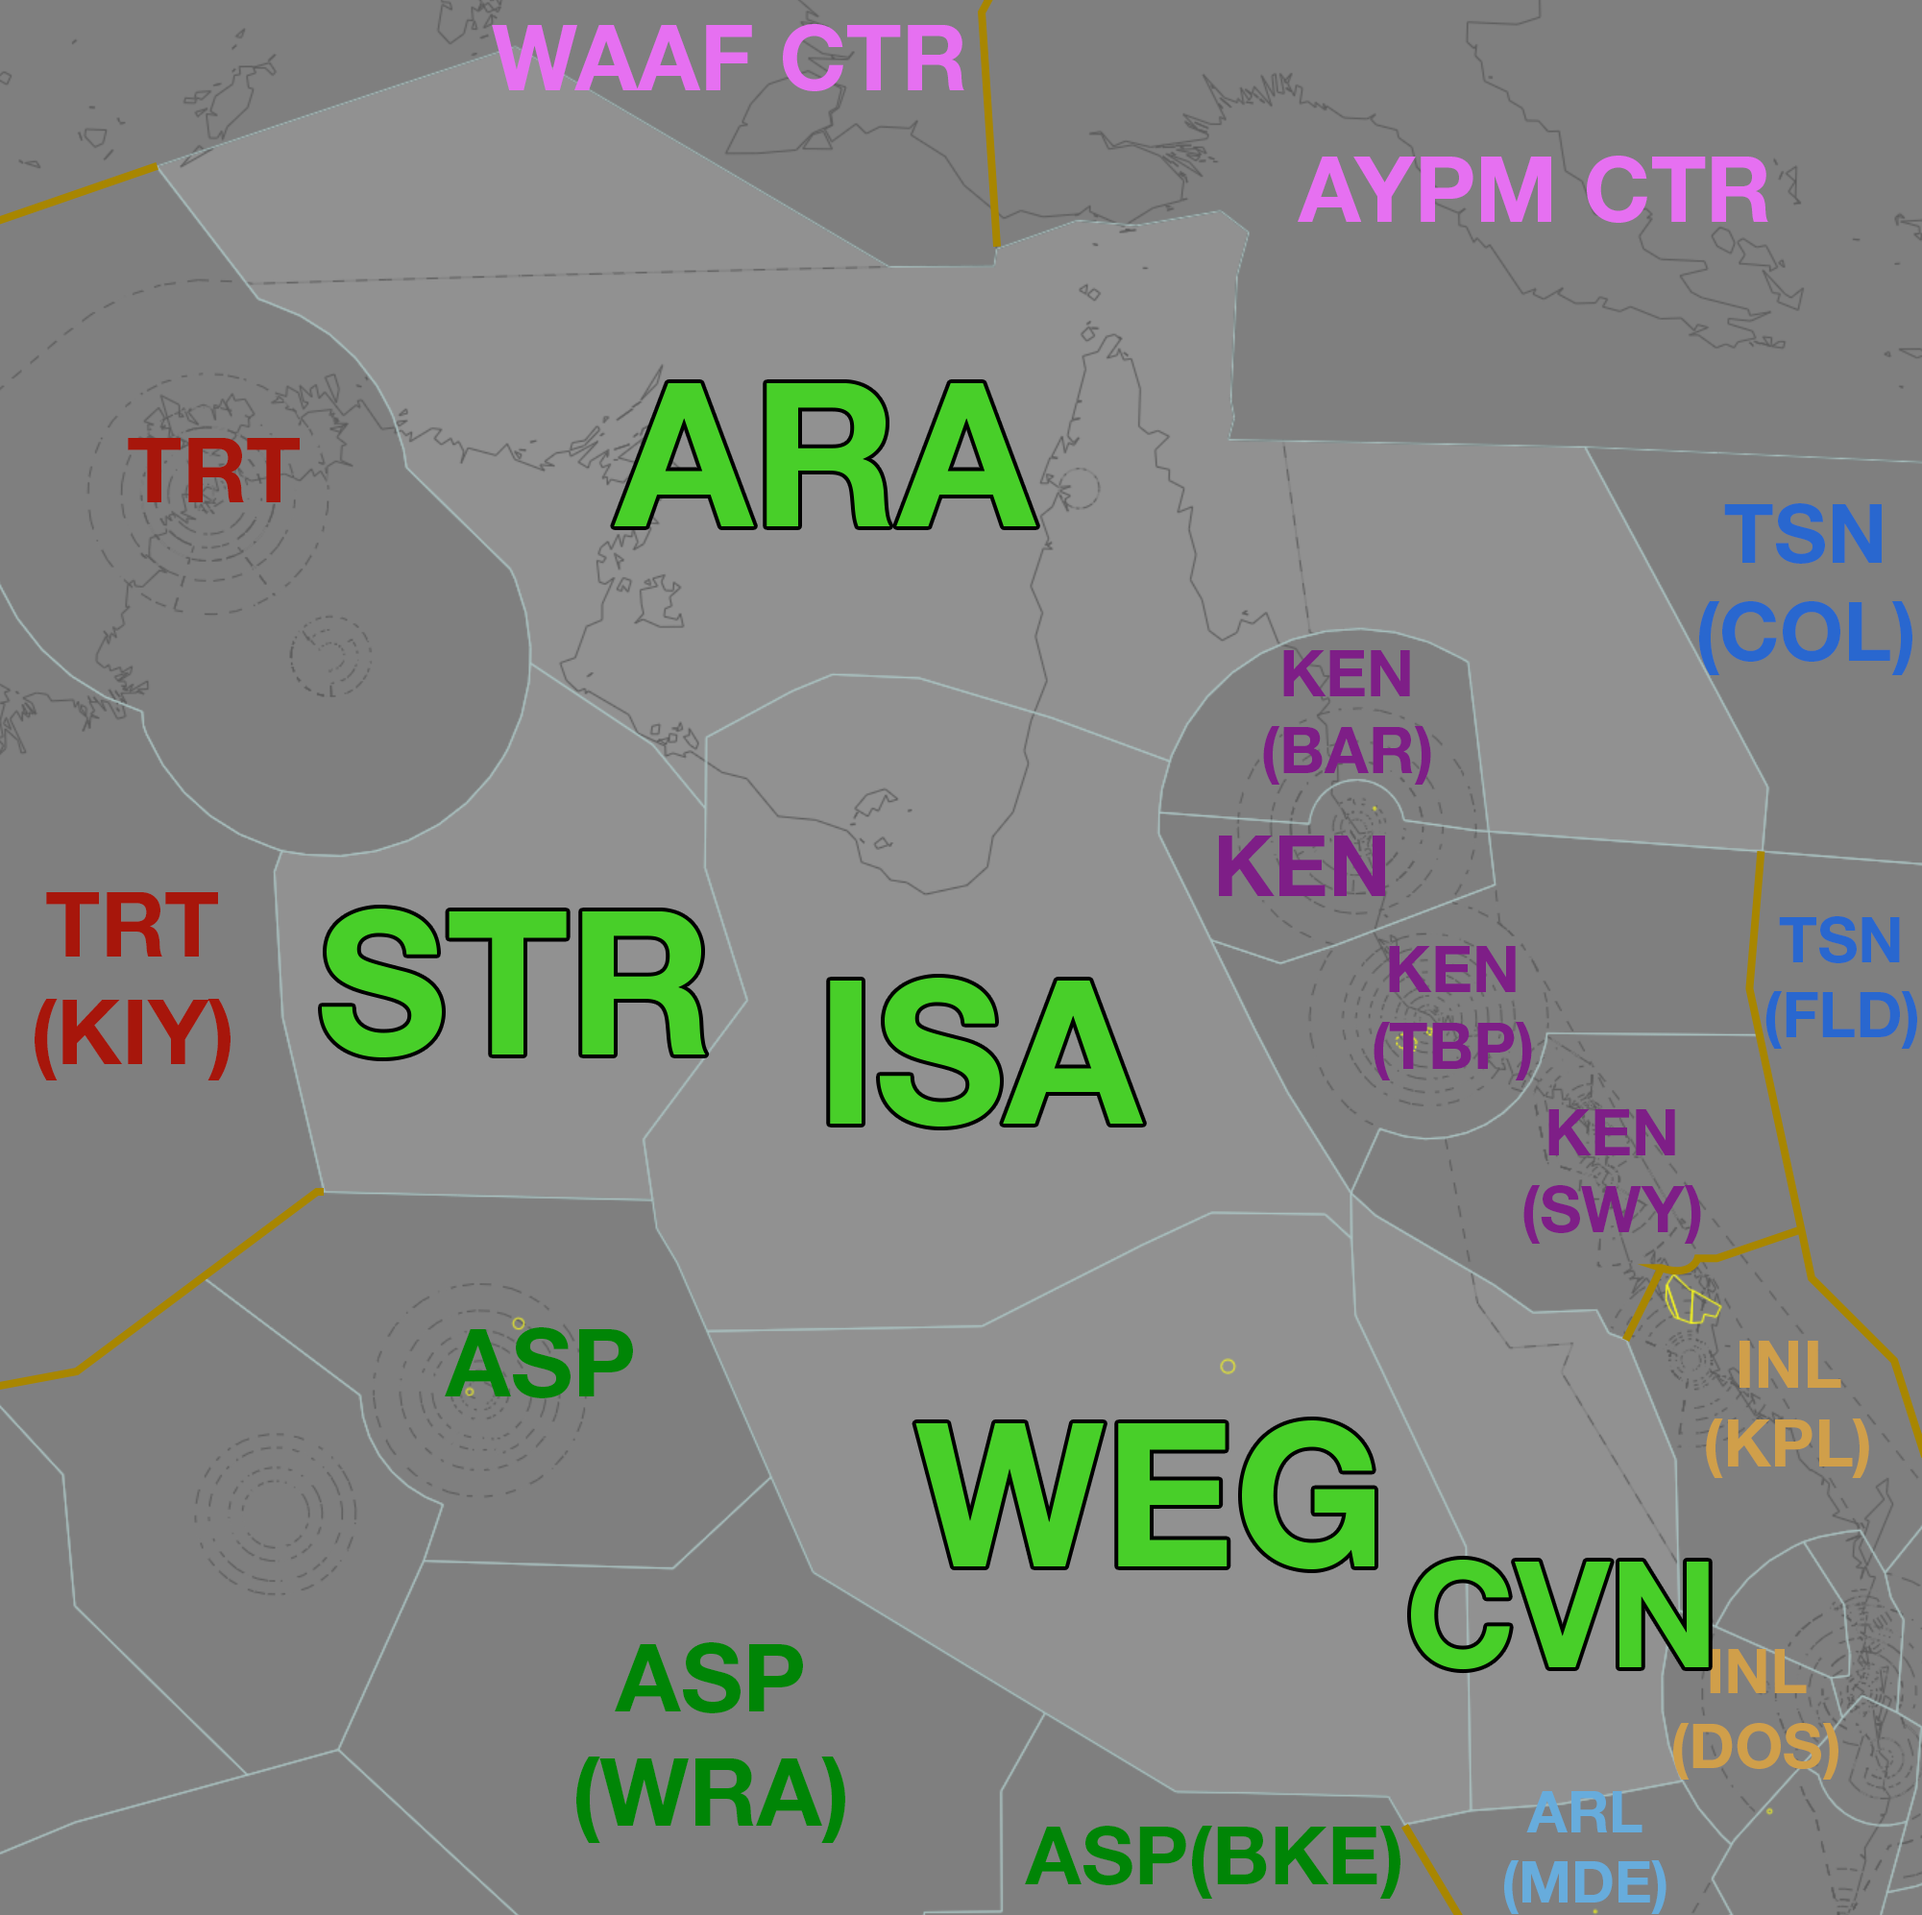
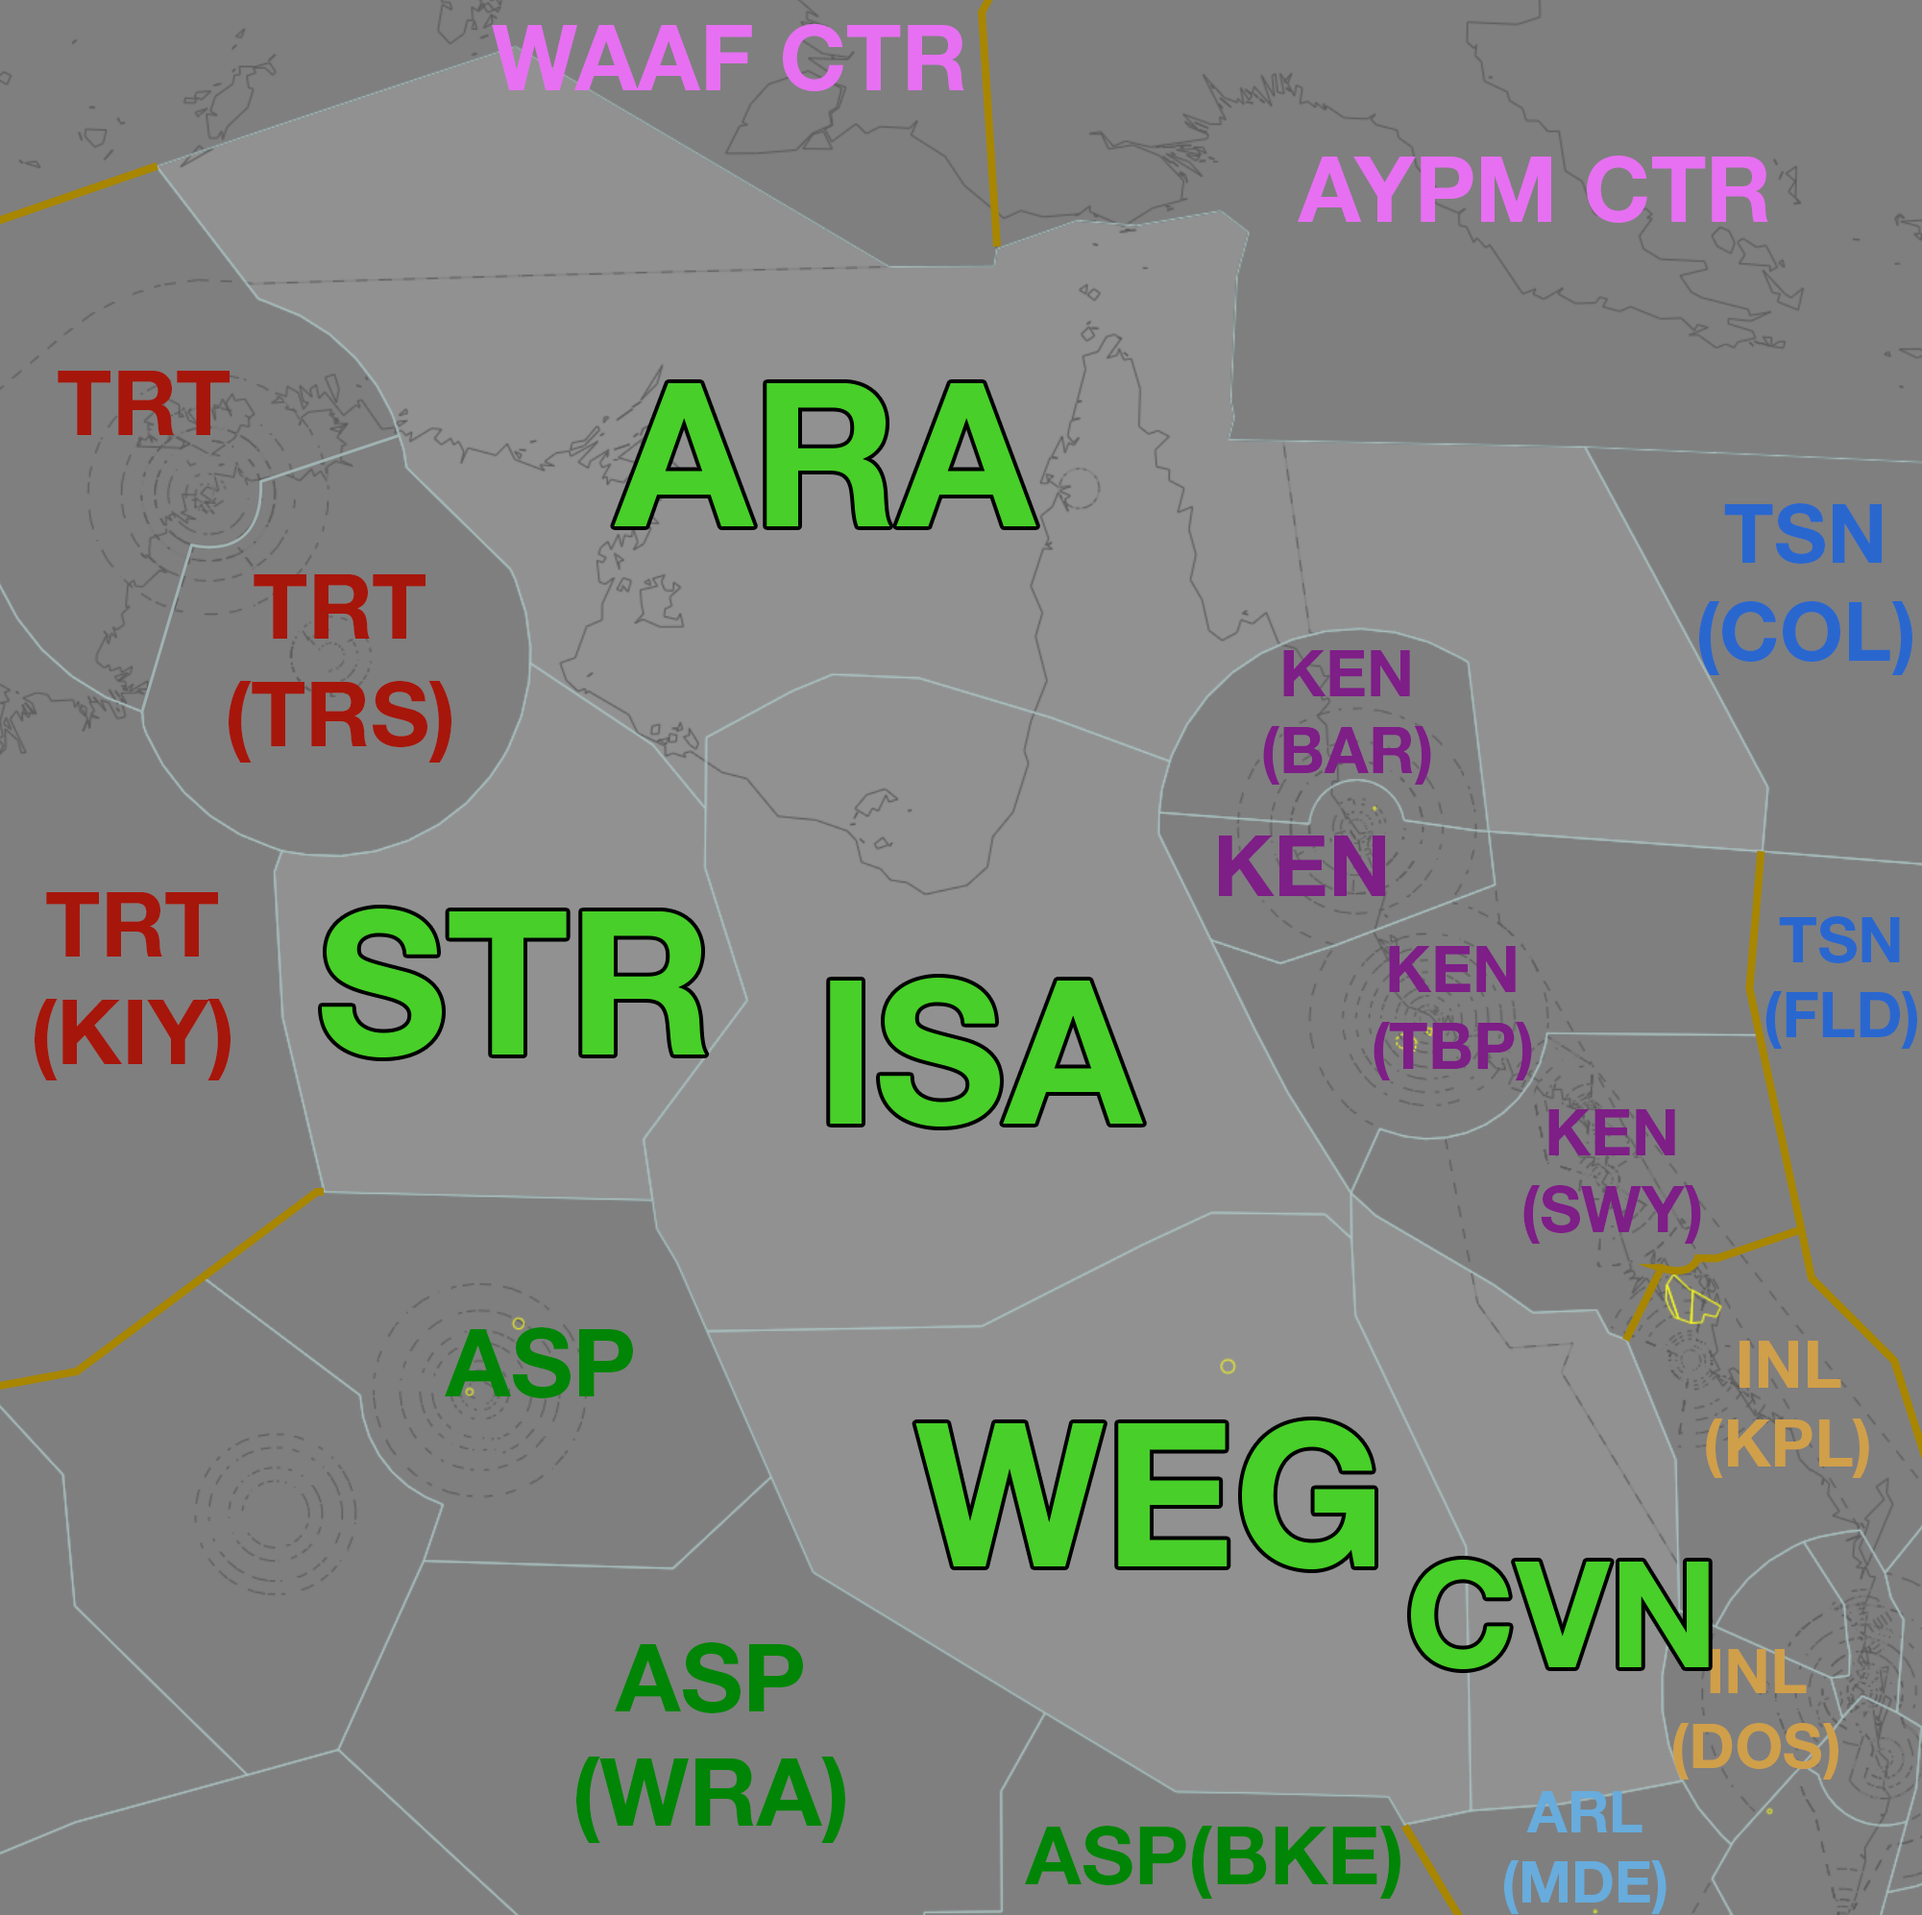
2410 TRT

Changed region(s): [[0.031, 0.1866, 0.2479, 0.4042]]

diff --git a/docs/enroute/Brisbane Centre/TRT.md b/docs/enroute/Brisbane Centre/TRT.md
@@ -7,8 +7,10 @@
 ## Positions
 | Name | Callsign | Frequency | Login ID |
 | ---- | -------- | --------- | -------- |
-| **Territory** | **Brisbane Centre** | **133.200** | **BN-TRT_CTR** |
-| Kimberley† | Brisbane Centre | 133.400 | BN-KIY_CTR |
+| **Territory North** | **Brisbane Centre** | **123.850** | **BN-TRT_CTR** |
+| Territory South† | Brisbane Centre | 133.200 | BN-TRS_CTR |
+| Ashmore† | Brisbane Centre | 133.400 | BN-ASH_CTR |
+| Kimberley† | Brisbane Centre | 132.100 | BN-KIY_CTR |
 
 † *Non-standard positions* may only be used in accordance with [VATPAC Air Traffic Services Policy](https://vatpac.org/publications/policies){target=new}
 
@@ -27,19 +29,19 @@ Voice may be used in lieu when applicable.
   <figcaption>Territory Airspace</figcaption>
 </figure>
 
-TRT is responsible for **KIY** when they are offline.  
+TRT is responsible for **TRS**, **ASH**, and **KIY**,  when they are offline.  
 
 ### Reclassifications
 #### BRM CTR
-When **BRM ADC** is offline, BRM CTR (Class D/E `SFC` to `A055`) reverts to Class G, and is administered by KIY. Alternatively, KIY may provide a [top-down procedural service](../../../aerodromes/Broome) if they wish.
+When **BRM ADC** is offline, BRM CTR (Class D/E `SFC` to `A055`) reverts to Class G, and is administered by ASH. Alternatively, ASH may provide a [top-down procedural service](../../../aerodromes/Broome) if they wish.
 
 !!! tip
     If choosing *not* to provide a top down service, consider publishing an **ATIS Zulu** for the aerodrome, to inform pilots about the airspace reclassification. The *More ATIS* plugin has a formatted Zulu ATIS message.
 
 ## Sector Responsibilities
-TRT is responsible for sequencing, issuing STAR Clearances, and issuing descent for aircraft bound for YPDN.  
-KIY is responsible for issuing descent and ascertaining arrival intentions for aircraft bound for YBRM.
-KIY is also responsible for sequencing and issuing descent to aircraft bound for YCIN.
+TRT and TRS are responsible for sequencing, issuing STAR Clearances, and issuing descent for aircraft bound for YPDN.  
+ASH is responsible for issuing descent and ascertaining arrival intentions for aircraft bound for YBRM.
+ASH is also responsible for sequencing and issuing descent to aircraft bound for YCIN.
 
 ## STAR Clearance Expectation
 ### Handoff
@@ -47,14 +49,14 @@ Aircraft being transferred to the following sectors shall be told to Expect STAR
 
 | Transferring Sector | Receiving Sector | ADES | Notes |
 | ---- | -------- | --------- | --------- |
-| STR, KIY | TRT | YPDN | |
+| ASH, KIY | TRT, TRS | YPDN | |
 
 ### First Contact
 Aircraft being transferred from the following sectors shall be given STAR Clearance on first contact:
 
 | Transferring Sector | Receiving Sector | ADES | Notes |
 | ---- | -------- | --------- | --------- |
-| STR, KIY, ISA(ARA) | TRT | YPDN | |
+| KIY, ASH, ISA(ARA/STR) | TRT, TRS | YPDN | |
 
 ## Coordination
 
@@ -96,14 +98,14 @@ All other aircraft going to TRT CTA will be **Heads-up** Coordinated by DN TCU.
 BRM ADC is responsible for the Class D airspace `SFC` to `A055`, as well as the Class E airspace `1200ft AGL` to `A055`, within the BRM CTR.
 
 #### Departures
-Departures from YBRM in to KIY CTA will be coordinated when ready for departure.  
+Departures from YBRM in to ASH CTA will be coordinated when ready for departure.  
 
 !!! example
-    <span class="hotline">**BRM ADC** -> **KIY**</span>: "Next, ANO333"  
-    <span class="hotline">**KIY** -> **BRM ADC**</span>: "ANO333, Unrestricted"  
-    <span class="hotline">**BRM ADC** -> **KIY**</span>: "ANO333"  
+    <span class="hotline">**BRM ADC** -> **ASH**</span>: "Next, ANO333"  
+    <span class="hotline">**ASH** -> **BRM ADC**</span>: "ANO333, Unrestricted"  
+    <span class="hotline">**BRM ADC** -> **ASH**</span>: "ANO333"  
 
-The Standard Assignable level from BRM ADC to TRT(KIY) is the lower of `A050` or the `RFL`, any other level must be prior coordinated.
+The Standard Assignable level from BRM ADC to TRT(ASH) is the lower of `A050` or the `RFL`, any other level must be prior coordinated.
 
 #### Arrivals
 YBRM arrivals shall be heads-up coordinated to **BRM ADC** from TRT prior to **5 mins** from the boundary.
@@ -112,22 +114,22 @@ YBRM arrivals shall be heads-up coordinated to **BRM ADC** from TRT prior to **5
     <span class="hotline">**TRT** -> **BRM ADC**</span>: "Via SAFIR, FD621”  
     <span class="hotline">**BRM ADC** -> **TRT**</span>: "FD621"  
 
-The Standard Assignable level from TRT(KIY) to BRM ADC is `A060`, any other level must be prior coordinated.
+The Standard Assignable level from TRT(ASH) to BRM ADC is `A060`, any other level must be prior coordinated.
 
 ### CIN TCU
 #### Airspace
 The limits of the CIN TCU are `SFC` to `F200` within 25 DME CIN. This may be amended by NOTAM.
 
 #### Arrivals/Overfliers
-The Standard assignable level from TRT(KIY) to CIN TCU is `F130`, tracking via CIN VOR.
+The Standard assignable level from TRT(ASH) to CIN TCU is `F130`, tracking via CIN VOR.
 
 All other aircraft must be voice coordinated to CIN TCU prior to **20nm** from the boundary.
 
 #### Departures
-The Standard Assignable level from CIN TCU to TRT(KIY) is `F190`, and tracking via their planned route.
+The Standard Assignable level from CIN TCU to TRT(ASH) is `F190`, and tracking via their planned route.
 
 #### CIN ADC
-When CIN TCU is offline, coordination is not required between TRT(KIY) and CIN ADC. Aircraft entering CIN ADC airspace shall be handed off, and instructed to contact CIN ADC for onwards clearance.
+When CIN TCU is offline, coordination is not required between TRT(ASH) and CIN ADC. Aircraft entering CIN ADC airspace shall be handed off, and instructed to contact CIN ADC for onwards clearance.
 
 CIN ADC owns the Class C airspace within the CIN MIL CTR from `SFC` to `A015`.
 

diff --git a/docs/aerodromes/procedural/Broome.md b/docs/aerodromes/procedural/Broome.md
@@ -22,24 +22,24 @@ BRM ADC is responsible for the Class D airspace `SFC` to `A055`, as well as the 
 Refer to [Class D Tower Separation Standards](../../../separation-standards/classd) for more information.
 
 ## Surveillance
-Surveillance coverage can be expected to be available at all levels in the BRM CTR. Although BRM ADC is **not permitted** to use surveillance for separation, TRT(KIY) may assist by establishing surveillance separation standards via coordination
+Surveillance coverage can be expected to be available at all levels in the BRM CTR. Although BRM ADC is **not permitted** to use surveillance for separation, TRT(ASH) may assist by establishing surveillance separation standards via coordination
 
 ## Coordination
 ### Departures
-A 'next' call is made for all aircraft when they are next to depart. BRM ADC must inform TRT(KIY) if the aircraft does not depart within **2 minutes** of the next call.
+A 'next' call is made for all aircraft when they are next to depart. BRM ADC must inform TRT(ASH) if the aircraft does not depart within **2 minutes** of the next call.
 
 !!! example
-    <span class="hotline">**BRM ADC** -> **KIY**</span>: "Next, NWK1653"  
-    <span class="hotline">**KIY** -> **BRM ADC**</span>: "NWK1653, Unrestricted"  
-    <span class="hotline">**BRM ADC** -> **KIY**</span>: "NWK1653"
+    <span class="hotline">**BRM ADC** -> **ASH**</span>: "Next, NWK1653"  
+    <span class="hotline">**ASH** -> **BRM ADC**</span>: "NWK1653, Unrestricted"  
+    <span class="hotline">**BRM ADC** -> **ASH**</span>: "NWK1653"
 
-The Standard Assignable level from BRM ADC to TRT(KIY) is the lower of `A050` or the `RFL`, any other level must be prior coordinated.
+The Standard Assignable level from BRM ADC to TRT(ASH) is the lower of `A050` or the `RFL`, any other level must be prior coordinated.
 
 ### Arrivals/Overfliers
-TRT(KIY) will heads-up coordinate all arrivals/overfliers to BRM ADC
+TRT(ASH) will heads-up coordinate all arrivals/overfliers to BRM ADC
 
 !!! example
-    <span class="hotline">**KIY** -> **BRM ADC**</span>: "Via CIN, ANO332”  
-    <span class="hotline">**BRM ADC** -> **KIY**</span>: "ANO332"  
+    <span class="hotline">**ASH** -> **BRM ADC**</span>: "Via CIN, ANO332”  
+    <span class="hotline">**BRM ADC** -> **ASH**</span>: "ANO332"  
 
-The Standard Assignable level from TRT(KIY) to BRM ADC is `A060`, any other level must be prior coordinated.
+The Standard Assignable level from TRT(ASH) to BRM ADC is `A060`, any other level must be prior coordinated.

diff --git a/docs/terminal/curtin.md b/docs/terminal/curtin.md
@@ -36,21 +36,20 @@ CIN ADC owns the Class C airspace within the CIN MIL CTR from `SFC` to `A015`.
     <span class="hotline">**CIN TCU** -> **CIN ADC**</span>: "ASY404, unrestricted"  
     <span class="hotline">**CIN ADC** -> **CIN TCU**</span>: "ASY404"  
 
-### TRT(KIY)
+### TRT(ASH)
 #### Departures
-Voiceless coordination is in place from CIN TCU to KIY for aircraft:  
+Voiceless coordination is in place from CIN TCU to ASH for aircraft:  
 Planned at or above `F190`: `Assigned F190`  
 Planned below `F190`: `Assigned the RFL`  
 
 Any aircraft not meeting the above criteria must be prior coordinated to ENR.
 
 !!! example
-    <span class="hotline">**CIN TCU** -> **KIY**</span>: "ASY404, with your concurrence, will be assigned F180, for my separation with JTE654"  
-    <span class="hotline">**KIY** -> **CIN TCU**</span>: "ASY404, concur F160"  
+    <span class="hotline">**CIN TCU** -> **ASH**</span>: "ASY404, with your concurrence, will be assigned F180, for my separation with JTE654"  
+    <span class="hotline">**ASH** -> **CIN TCU**</span>: "ASY404, concur F160"  
 
 #### Arrivals
-The Standard assignable level from KIY to CIN TCU is `F130`, and tracking via CIN VOR. All other aircraft must be prior coordinated.
+The Standard assignable level from ASH to CIN TCU is `F130`, and tracking via CIN VOR. All other aircraft must be prior coordinated.
 
 !!! note
     Additional charts to the AIP may be found in the RAAF TERMA document, available towards the bottom of [RAAF AIP page](https://ais-af.airforce.gov.au/australian-aip){target=new}
-

diff --git a/docs/aerodromes/classc/Curtin.md b/docs/aerodromes/classc/Curtin.md
@@ -34,10 +34,9 @@ CIN ADC owns the Class C airspace within the CIN MIL CTR from `SFC` to `A015`.
 
 The Standard Assignable Level from  **CIN ADC** to **CIN TCU** is the Lower of `F190` or the `RFL`.
 
-### TRT(KIY)
-When CIN TCU is offline, coordination is not required between CIN ADC and TRT(KIY). Aircraft entering TRT(KIY) airspace shall be handed off, and instructed to contact TRT(KIY) for onwards clearance.
+### TRT(ASH)
+When CIN TCU is offline, coordination is not required between CIN ADC and TRT(ASH). Aircraft entering TRT(ASH) airspace shall be handed off, and instructed to contact TRT(ASH) for onwards clearance.
 
 ## Charts
 !!! note
     Additional charts to the AIP may be found in the RAAF TERMA document, available towards the bottom of [RAAF AIP page](https://ais-af.airforce.gov.au/australian-aip){target=new}
-

diff --git a/includes/abbreviations.md b/includes/abbreviations.md
@@ -108,6 +108,8 @@
 *[GOL]: Brisbane (Gold Coast) Centre
 *[KPL]: Brisbane (Keppel) Centre
 *[KIY]: Brisbane (Kimberley) Centre
+*[ASH]: Brisbane (Ashmore) Centre
+*[TRS]: Brisbane (Territory South) Centre
 *[MLD]: Brisbane (Maitland) Centre
 *[MNN]: Brisbane (Manning) Centre
 *[MDE]: Brisbane (Mudgee) Centre
